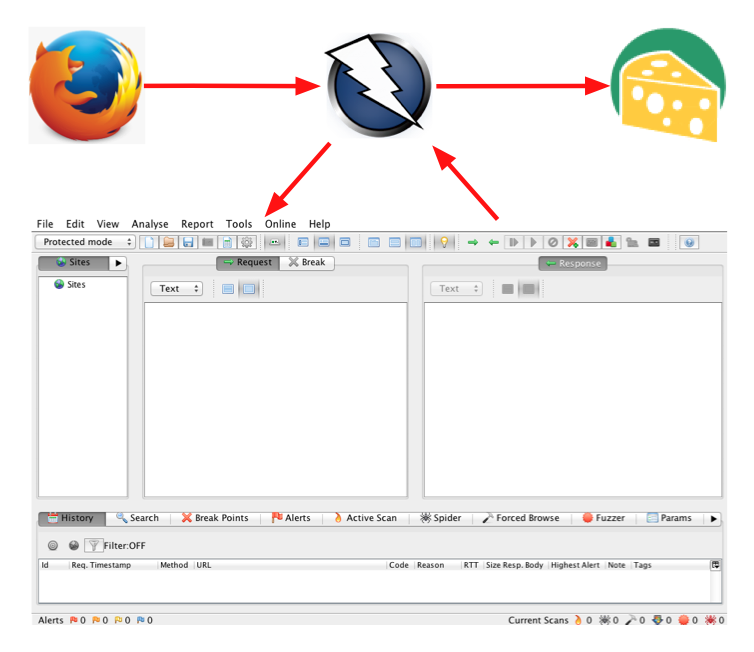
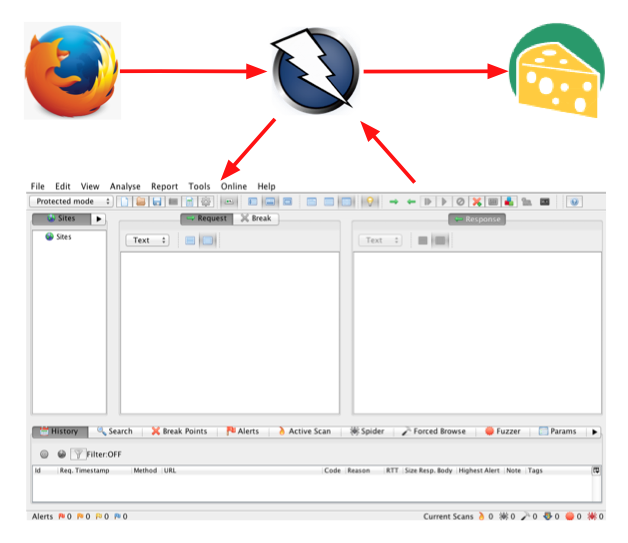
resize flow & elaborate on escaping

diff --git a/index.html b/index.html
@@ -190,7 +190,7 @@
 
           <section>
             <h3>How We'll Work:</h3>
-            <img src="zap-flow.png" alt="ZAP workflow" style="border:0">
+            <img src="zap-flow.png" alt="ZAP workflow" style="border:0; max-height: 66%">
           </section>
 
 
@@ -242,6 +242,29 @@
           </section>
 
           <section>
+            <h3>HTML Control Characters</h3>
+            <p class="fragment">Well known: <code>&quot;</code>, <code>&lt;</code>, <code>&gt;</code>, and <code>&amp;</code></p>
+            <p class="fragment">Often overlooked: <code>=</code>, <code>'</code> (apostrophe), <code>!</code>, <code>/</code>, and <code>`</code> (backtick)</p>
+          </section>
+
+          <section>
+            <h3>HTML Escaping</h3>
+            <table style="border: 1px solid black">
+              <thead>
+                <tr><th>Character</th><th>Encoding</th></tr>
+              </thead>
+              <tbody>
+                <tr><td>&#34;</td><td><code>&amp;quot;</code></td></tr>
+                <tr><td>&lt;</td><td><code>&amp;lt;</code></td></tr>
+                <tr><td>&gt;</td><td><code>&amp;gt;</code></td></tr>
+                <tr><td>&#38;</td><td><code>&amp;amp;</code></td></tr>
+                <tr><td>&#39;</td><td><code>&amp;#39;</code></td></tr>
+                <tr><td>generally:</td><td><code>&#xHHHHHH;</code></td></tr>
+              </tbody>
+            </table>
+          </section>
+
+          <section>
             <h2>Beyond the theory</h2>
             <p>Briefly stated: escape control characters</p>
             <p class="fragment">This is a "block-list" approach</p>
@@ -270,9 +293,9 @@
           </section>
 
           <section>
-            <h3>Applied to XSS</h3>
+            <h3>Allow-listing applied to XSS</h3>
             <p class="fragment">Alpha-numeric is usually safe</p>
-            <p class="fragment">Escape <b>everything else</b></p>
+            <p class="fragment">Escape <b>everything else</b> using <code>&#xHHHHHH;</code> syntax</p>
           </section>
 
           <section>
